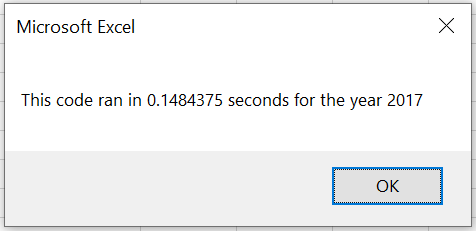
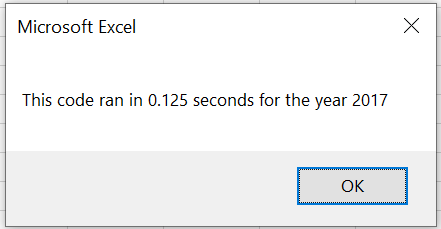
Put code outside of loop to run faster. Replaced results and description.

Changed region(s): [[0.0, 0.0, 1.0, 1.0], [0.6485, 0.7031, 0.9433, 0.917]]

diff --git a/README.md b/README.md
@@ -56,11 +56,11 @@ For the original script, it took 0.96875 seconds for the year 2017 to execute wh
 ![Execution Times for Original Script 2017](Other_Screenshots/All_Stocks_Analysis_2017.PNG)
 ![Execution Times for Original Script 2017](Other_Screenshots/All_Stocks_Analysis_2018.PNG)
 
-For the refactored script, it took 0.1484375 seconds for both 2017 and 2018 to execute
+For the refactored script, it took 0.125 seconds for both 2017 and 2018 to execute
 ![Execution Times for Refactored Script 2017](Resources/VBA_Challenge_2017.PNG)
 ![Execution Times for Refactored Script 2017](Resources/VBA_Challenge_2018.PNG)
 
-As a result of refactoring the script, the stock analysis now run 6 times faster!
+As a result of refactoring the script, the stock analysis now run approximately 7.5 times faster!
 
 ## Summary
 
